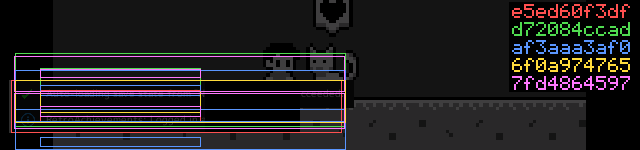
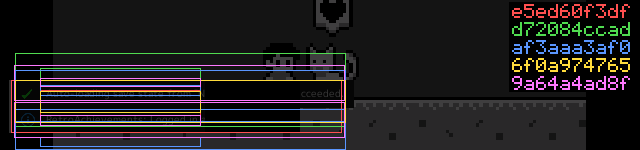
docs: #296 -- the eighth cut's frames (12 px under, the left margin's number) in the five-build grids

diff --git a/docs/qa-frames/2026-09-27/README.md b/docs/qa-frames/2026-09-27/README.md
@@ -92,3 +92,22 @@ regenerated over five builds (`*-5builds-*`); the four-build ones stay.
 settled stack cut from its frame and pasted on the same scene so its bottom edge sits NN rows above the panel's bottom.
 A mock, labelled as such in the image: it says where the same boxes would sit, nothing about their size or text. 21 is
 the cut as built (`MSG_QUEUE_BOTTOM_MARGIN_LINES` 4/3 of the placement line height); 42 is where the old build put it.
+
+## #296, the eighth cut: the foot is the left margin
+
+The maintainer, from the four mock-ups: *"I think going with 12 pixels is the way to go. It makes it look more uniform
+in terms of space from the left edge and space from the bottom edge. I think using 13-point font as well is also how we
+should proceed. If we know exactly what the left spacing is, we could just set the bottom to be equivalent to it, if
+that's possible."* (D-UI-100). Guest d rebuilt from run 71's image (`9a64a4ad8f`), the same runner at the H700's widget
+scale (tag `d-v8`). RetroArch's own log: `drawn 13.00 px`; `box 36 px, pitch 37, left 12, under the bottom box 12`.
+
+| Moment | rows | what it says |
+| --- | --- | --- |
+| the sign-in alone | box 432..467 (36 px), text 445..453; the box's visible edge from x=12 | 12 px of screen to the box's left and 12 under it: one margin |
+| the load line alone | 431..466, then 432..467 as the sign-in arrives | one pixel between RetroArch's two layout passes (its regular face is smaller on the first), not fourteen |
+| the stack settled | 395..430 over 432..467 | a one-row seam; pitch 37 = box + 1 |
+| the slot save | 432..467 | one task line at the slot |
+
+The five-build grids `296-grid-<moment>-5builds-1286x1530.png` now carry the eighth cut as cell 5 (the seventh cut's
+frames, `*-7fd4864597-*`, stay filed; it was the 21 px cut the mock-ups were made from). The strips and overlays over
+five builds are regenerated with the eighth.
